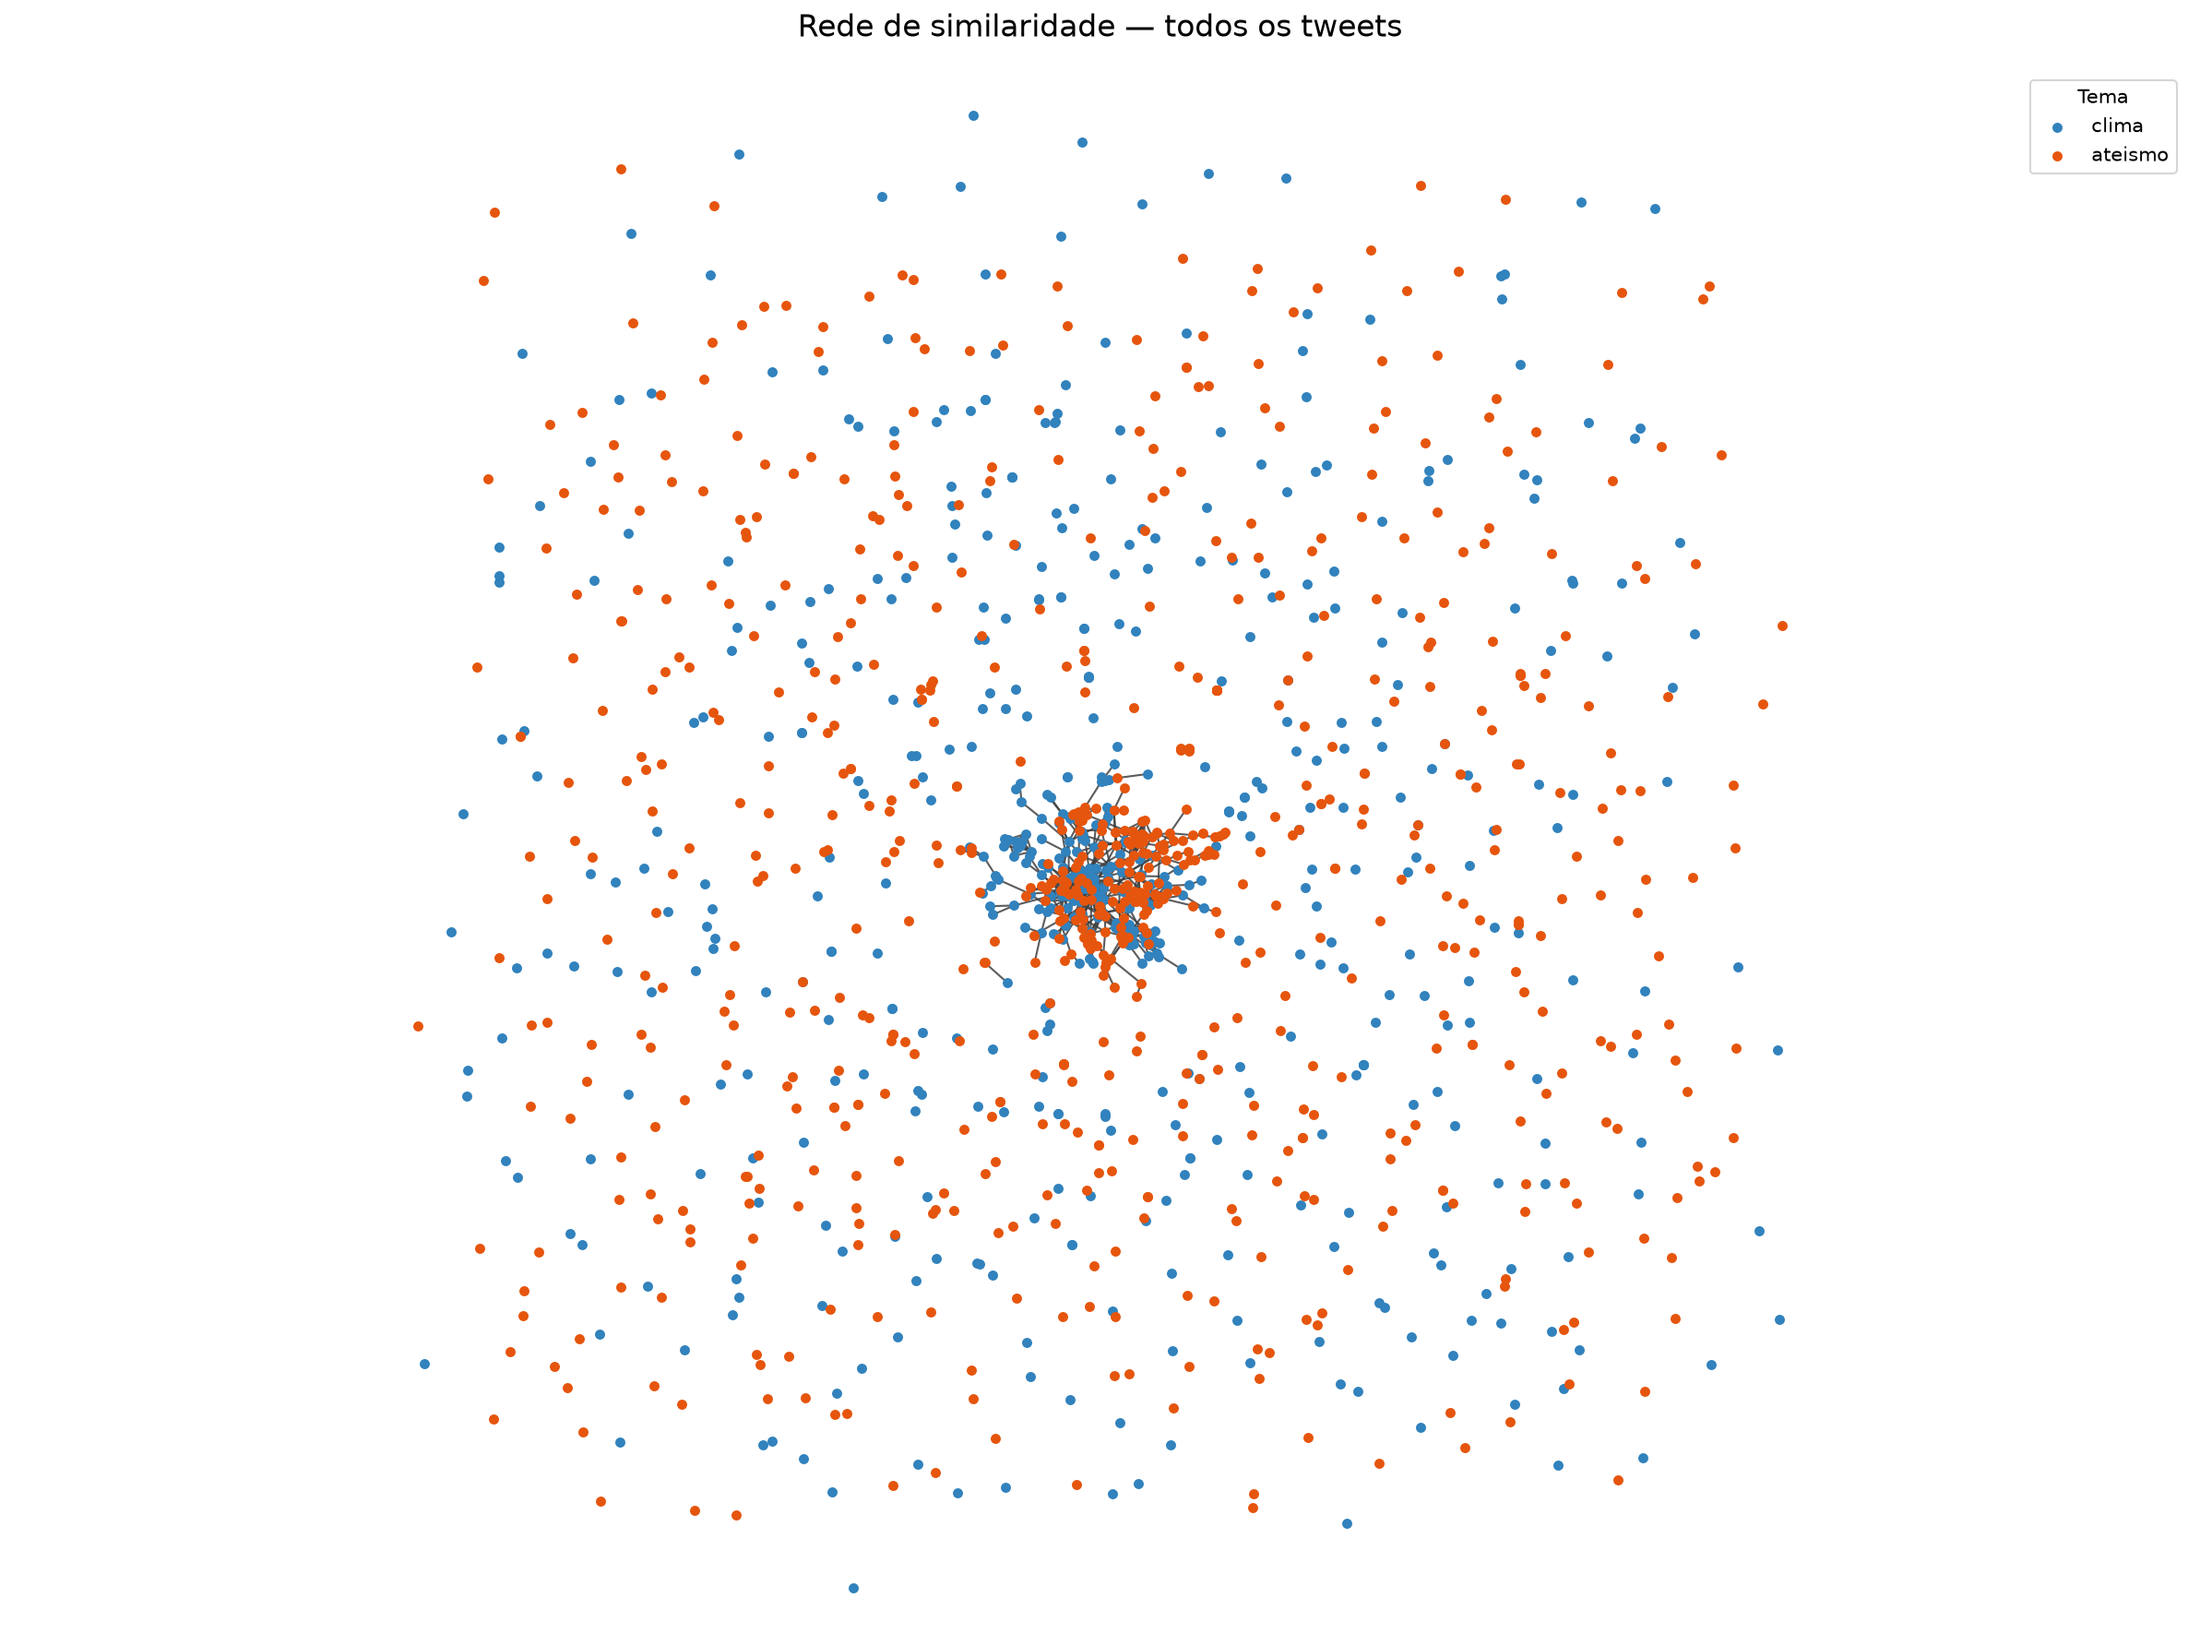
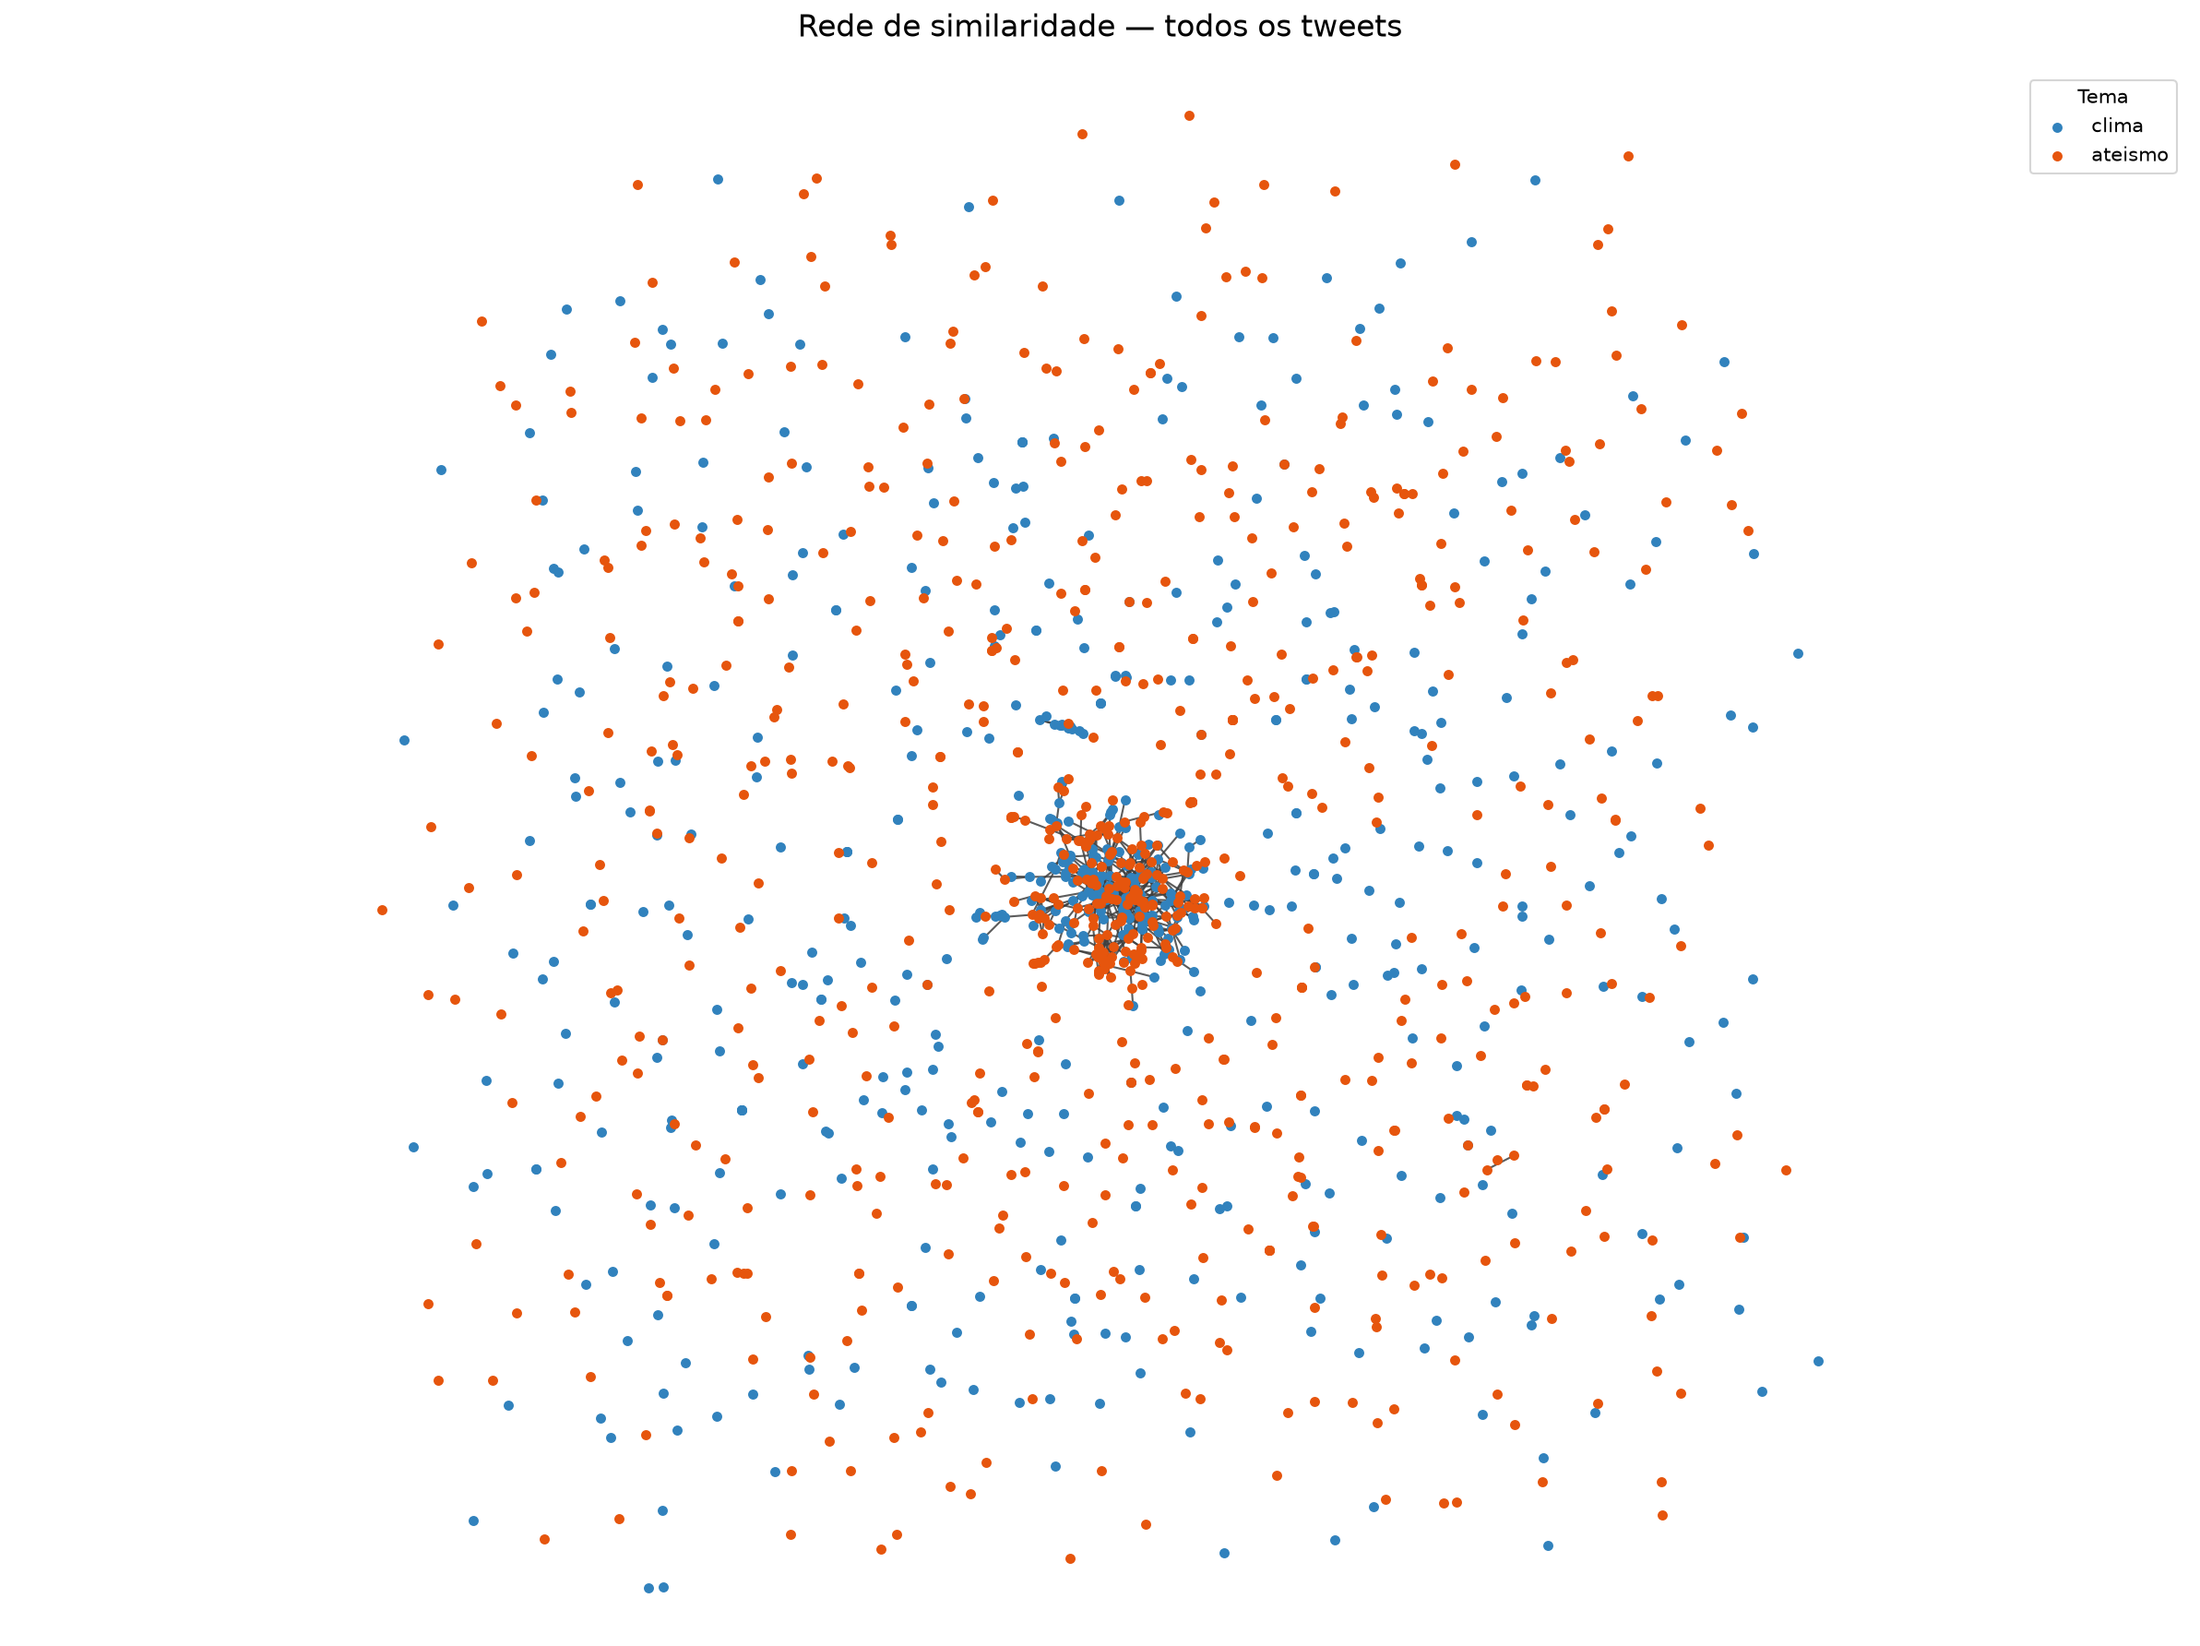
fix: matriz_similaridade.py

diff --git a/exercicio4/src/matriz_similaridade.py b/exercicio4/src/matriz_similaridade.py
@@ -1,3 +1,4 @@
+
 """Cálculo em lote e exportação da matriz de similaridade textual (Etapa 2)."""
 
 import argparse
@@ -19,26 +20,40 @@ ARQUIVO_ENTRADA = RAIZ_PROJETO / "resultados" / "tweets_tratados.csv"
 ARQUIVO_MATRIZ = RAIZ_PROJETO / "resultados" / "matriz_similaridade.csv"
 ARQUIVO_TEMAS = RAIZ_PROJETO / "resultados" / "metadados_similaridade.csv"
 ARQUIVO_HISTOGRAMA = RAIZ_PROJETO / "resultados" / "histograma_similaridade.png"
+
 SAIDAS = (ARQUIVO_MATRIZ, ARQUIVO_TEMAS, ARQUIVO_HISTOGRAMA)
 
 
 def carregar_textos() -> tuple[list[str], pd.Series]:
     """Lê somente as colunas necessárias e mantém o tema de cada tweet."""
+
     if not ARQUIVO_ENTRADA.exists():
-        raise FileNotFoundError(f"Arquivo de entrada não encontrado: {ARQUIVO_ENTRADA}")
-    dados = pd.read_csv(ARQUIVO_ENTRADA, usecols=["texto_limpo", "tema"])
+        raise FileNotFoundError(
+            f"Arquivo de entrada não encontrado: {ARQUIVO_ENTRADA}"
+        )
+
+    dados = pd.read_csv(
+        ARQUIVO_ENTRADA,
+        usecols=["texto_limpo", "tema"],
+    )
+
     if dados[["texto_limpo", "tema"]].isna().any().any():
-        raise ValueError("As colunas 'texto_limpo' e 'tema' não podem conter valores vazios.")
+        raise ValueError(
+            "As colunas 'texto_limpo' e 'tema' não podem conter valores vazios."
+        )
+
     textos = dados["texto_limpo"].astype(str).tolist()
     temas = dados["tema"].astype(str).rename("tema")
+
     if not textos:
         raise ValueError("O CSV não contém tweets para comparar.")
+
     return textos, temas
 
 
 def calcular_matriz(textos: list[str]) -> np.ndarray:
     """Calcula a matriz float32, reduzindo o uso de memória."""
-    # cdist produz diretamente float32; evitar float64 reduz pela metade a RAM.
+
     matriz = process.cdist(
         textos,
         textos,
@@ -46,79 +61,192 @@ def calcular_matriz(textos: list[str]) -> np.ndarray:
         dtype=np.float32,
         workers=-1,
     )
-    # Copia cada triângulo para o outro, assegurando simetria sem outra matriz.
+
+    # Copia cada triângulo para o outro, assegurando simetria.
     for indice in range(matriz.shape[0]):
-        matriz[indice + 1 :, indice] = matriz[indice, indice + 1 :]
+        matriz[indice + 1:, indice] = matriz[indice, indice + 1:]
+
+    # Garante que a diagonal principal seja igual a 1.
     np.fill_diagonal(matriz, 1.0)
+
     return matriz
 
 
-def salvar_resultados(matriz: np.ndarray, temas: pd.Series) -> None:
-    """Salva matriz com IDs estáveis, metadados de tema e histograma."""
+def obter_similaridades_pares(matriz: np.ndarray) -> np.ndarray:
+    """
+    Obtém as similaridades entre pares distintos,
+    excluindo a diagonal e evitando comparações duplicadas.
+    """
+
+    indices = np.triu_indices_from(matriz, k=1)
+
+    return matriz[indices]
+
+
+def salvar_resultados(
+    matriz: np.ndarray,
+    temas: pd.Series,
+    similaridades_pares: np.ndarray,
+) -> None:
+    """Salva matriz, metadados e histograma."""
+
     quantidade = matriz.shape[0]
+
     ids = np.arange(quantidade)
     colunas = [f"tweet_{i}" for i in ids]
+
+    # Converte a matriz em DataFrame.
     quadro = pd.DataFrame(matriz, columns=colunas)
     quadro.insert(0, "tweet_id", ids)
-    quadro.to_csv(ARQUIVO_MATRIZ, index=False, float_format="%.6f")
 
-    metadados = pd.DataFrame({"tweet_id": ids, "tema": temas.to_numpy()})
-    metadados.to_csv(ARQUIVO_TEMAS, index=False, encoding="utf-8")
+    # Salva a matriz em CSV.
+    quadro.to_csv(
+        ARQUIVO_MATRIZ,
+        index=False,
+        float_format="%.6f",
+    )
 
-    # Usa cache temporário, pois alguns ambientes não permitem escrita na pasta pessoal.
-    os.environ.setdefault("MPLCONFIGDIR", str(Path(tempfile.gettempdir()) / "exercicio4-matplotlib"))
-    # Importação local para permitir identificar a falta da dependência claramente.
+    # Salva os metadados dos temas.
+    metadados = pd.DataFrame({
+        "tweet_id": ids,
+        "tema": temas.to_numpy(),
+    })
+
+    metadados.to_csv(
+        ARQUIVO_TEMAS,
+        index=False,
+        encoding="utf-8",
+    )
+
+    # Configuração do Matplotlib.
+    os.environ.setdefault(
+        "MPLCONFIGDIR",
+        str(Path(tempfile.gettempdir()) / "exercicio4-matplotlib"),
+    )
+
     import matplotlib
 
     matplotlib.use("Agg")
     import matplotlib.pyplot as plt
 
+    # Histograma considerando apenas pares distintos.
     plt.figure(figsize=(9, 5))
-    plt.hist(matriz.ravel(), bins=50, range=(0, 1), color="steelblue", edgecolor="white")
+
+    plt.hist(
+        similaridades_pares,
+        bins=50,
+        range=(0, 1),
+        color="steelblue",
+        edgecolor="white",
+    )
+
     plt.title("Distribuição da similaridade de Levenshtein")
     plt.xlabel("Similaridade normalizada")
-    plt.ylabel("Quantidade de pares")
+    plt.ylabel("Quantidade de pares distintos")
+
     plt.tight_layout()
+
     plt.savefig(ARQUIVO_HISTOGRAMA, dpi=150)
     plt.close()
 
 
 def executar(forcar: bool = False) -> None:
-    """Reutiliza resultados completos existentes, salvo quando forçado."""
+    """Reutiliza resultados existentes, salvo quando forçado."""
+
+    # Demonstração do exemplo solicitado no exercício.
     demonstrar_levenshtein()
+
+    # Verifica se os arquivos já existem.
     if all(arquivo.exists() for arquivo in SAIDAS) and not forcar:
-        print("\nAs saídas já existem; recálculo ignorado. Use --force para recalcular.")
+        print(
+            "\nAs saídas já existem; recálculo ignorado. "
+            "Use --force para recalcular."
+        )
+
         for arquivo in SAIDAS:
             print(f"Arquivo existente: {arquivo}")
+
         return
 
+    # Carrega os textos e os temas.
     textos, temas = carregar_textos()
-    matriz = calcular_matriz(textos)
-    simetrica = bool(np.array_equal(matriz, matriz.T))
-    diagonal_unitaria = bool(np.all(np.diag(matriz) == 1.0))
-    if not simetrica or not diagonal_unitaria:
-        raise RuntimeError("A matriz não passou nas verificações de simetria e diagonal.")
 
-    salvar_resultados(matriz, temas)
+    # Calcula a matriz de similaridade.
+    matriz = calcular_matriz(textos)
+
+    # Verifica as propriedades da matriz.
+    simetrica = bool(np.array_equal(matriz, matriz.T))
+
+    diagonal_unitaria = bool(
+        np.all(np.diag(matriz) == 1.0)
+    )
+
+    if not simetrica or not diagonal_unitaria:
+        raise RuntimeError(
+            "A matriz não passou nas verificações de simetria e diagonal."
+        )
+
+    # Obtém somente os pares distintos de tweets.
+    similaridades_pares = obter_similaridades_pares(matriz)
+
+    # Salva os resultados.
+    salvar_resultados(
+        matriz,
+        temas,
+        similaridades_pares,
+    )
+
+    # Apresenta os resultados.
     print(f"\nTweets comparados: {matriz.shape[0]}")
+
+    print(
+        f"Quantidade de pares distintos: "
+        f"{len(similaridades_pares)}"
+    )
+
     print(f"Temas: {temas.value_counts().to_dict()}")
-    print(f"Matriz simétrica: {simetrica}; diagonal igual a 1: {diagonal_unitaria}")
-    print(f"Similaridade mínima: {matriz.min():.6f}")
-    print(f"Similaridade máxima: {matriz.max():.6f}")
-    print(f"Similaridade média: {matriz.mean():.6f}")
+
+    print(
+        f"Matriz simétrica: {simetrica}; "
+        f"diagonal igual a 1: {diagonal_unitaria}"
+    )
+
+    print(
+        f"Similaridade mínima entre pares distintos: "
+        f"{similaridades_pares.min():.6f}"
+    )
+
+    print(
+        f"Similaridade máxima entre pares distintos: "
+        f"{similaridades_pares.max():.6f}"
+    )
+
+    print(
+        f"Similaridade média entre pares distintos: "
+        f"{similaridades_pares.mean():.6f}"
+    )
+
     for arquivo in SAIDAS:
         print(f"Arquivo gerado: {arquivo}")
 
 
 def main() -> int:
+    """Executa o programa e trata possíveis erros."""
+
     parser = argparse.ArgumentParser(description=__doc__)
+
     parser.add_argument(
-        "--force", action="store_true", help="recalcula mesmo se os arquivos de saída existirem"
+        "--force",
+        action="store_true",
+        help="recalcula mesmo se os arquivos de saída existirem",
     )
+
     args = parser.parse_args()
+
     try:
         executar(forcar=args.force)
         return 0
+
     except Exception as erro:
         print(f"Erro: {erro}", file=sys.stderr)
         return 1
